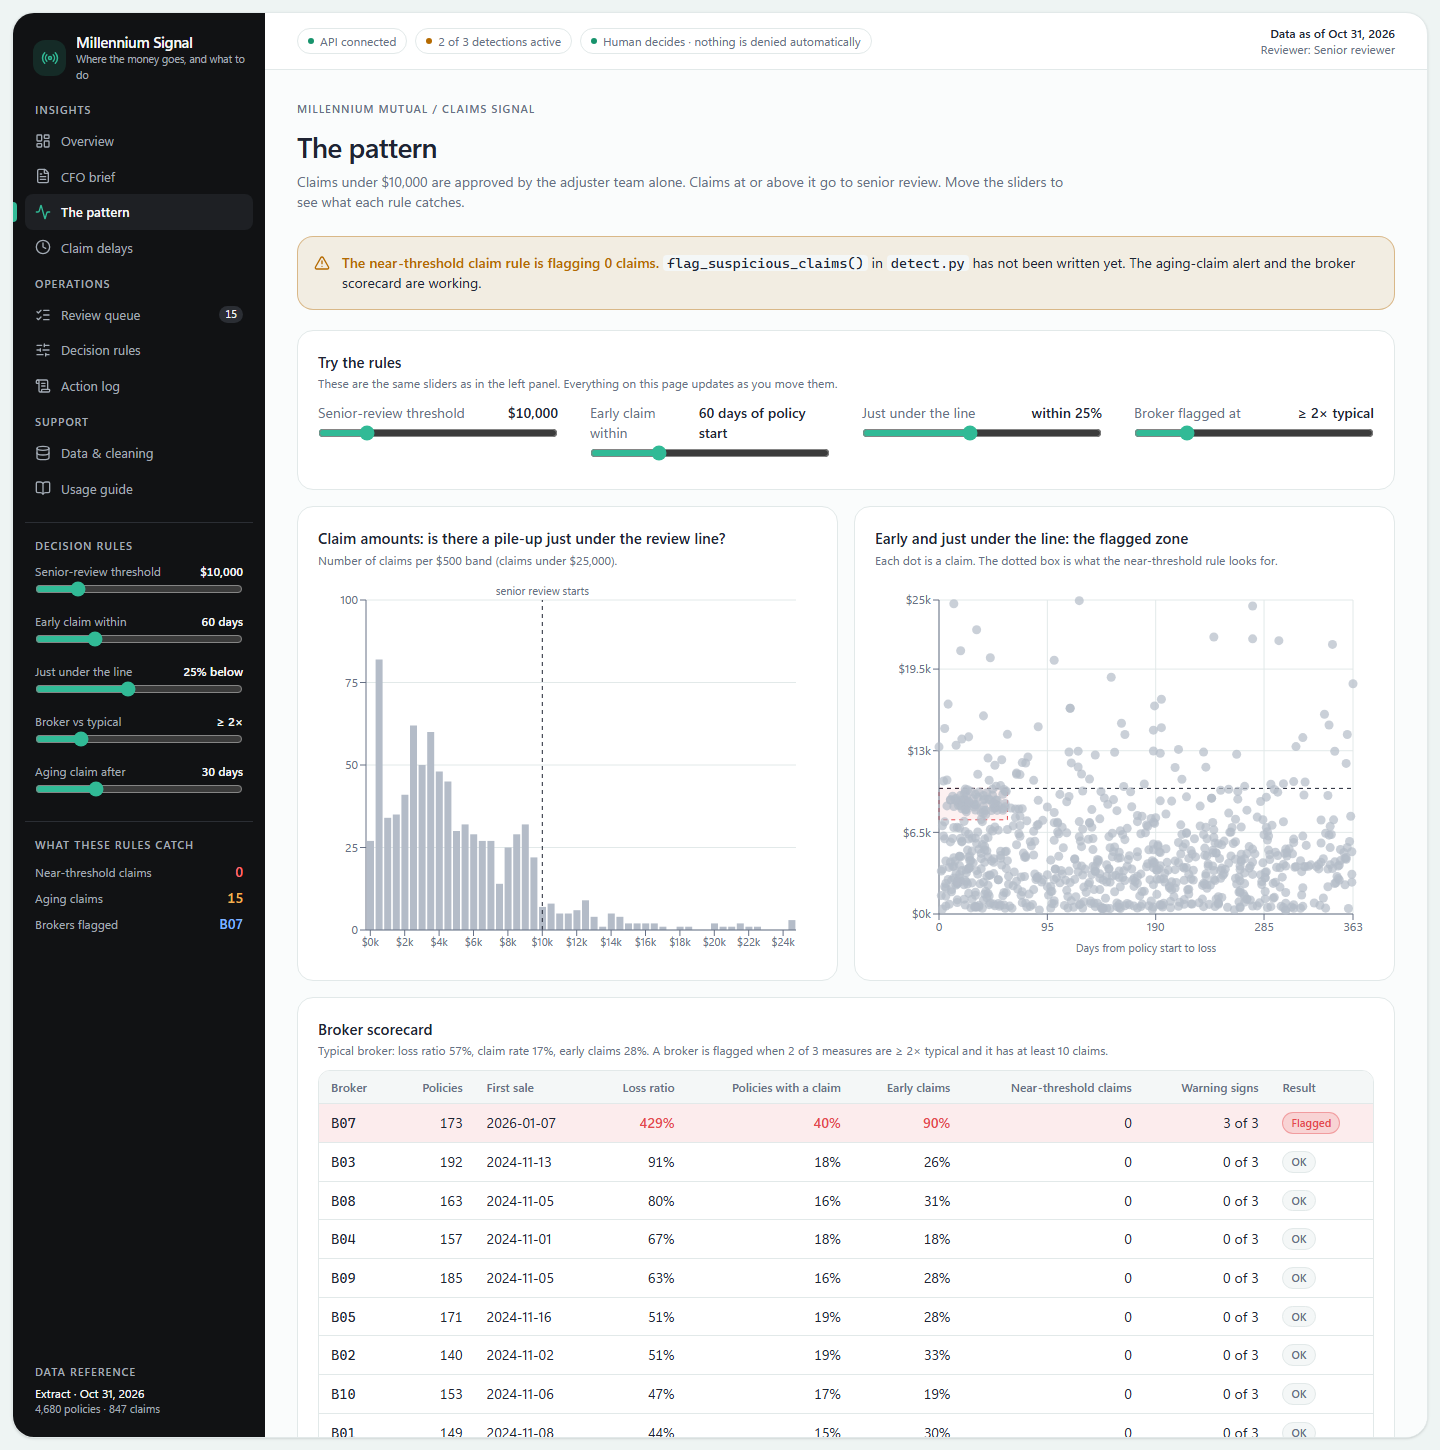
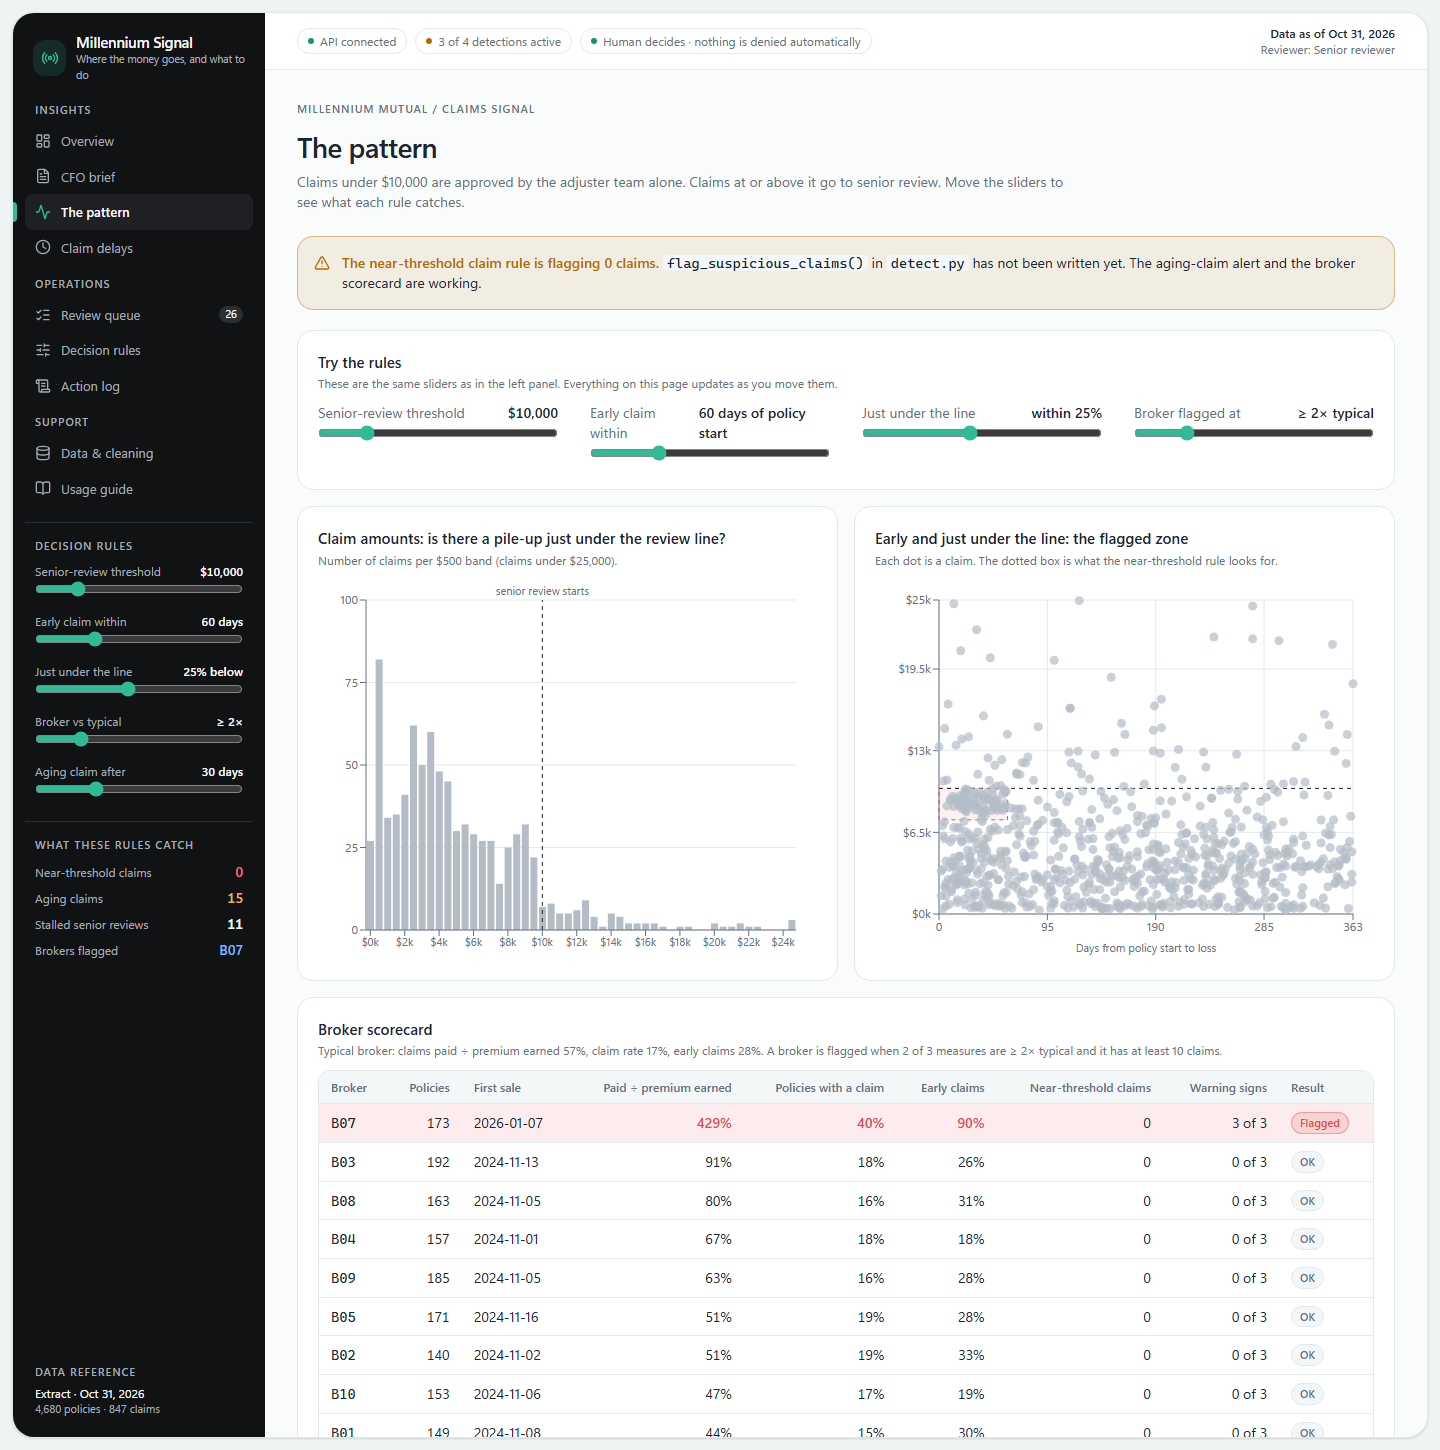
Drop 'loss ratio' label and causal renewal wording
Claims paid / premium earned is now labelled a diagnostic, not a loss ratio
or profit. Renewal findings are stated as an association, not a cause.
Figures and thresholds unchanged. Screenshots retaken.

diff --git a/web/app/guide/page.tsx b/web/app/guide/page.tsx
@@ -43,7 +43,7 @@ export default function GuidePage() {
               <L href="/log">Action log</L> → Reset demo (start clean).
             </li>
             <li>
-              <L href="/">Overview</L>: the loss ratio with and without the flagged broker.
+              <L href="/">Overview</L>: claims paid ÷ premium earned, with and without the flagged broker.
             </li>
             <li>
               <L href="/pattern">The pattern</L>: the scorecard, then move a slider and watch it change.
@@ -81,9 +81,16 @@ export default function GuidePage() {
         <Card title="Limits and uncertainties">
           <ul className="list-disc space-y-2 pl-5 text-sm leading-relaxed">
             <li>A flag asks for a second look. It is not a fraud finding, and the system never denies a claim.</li>
+            <li>
+              “Claims paid ÷ premium earned” is a diagnostic. It is not a full loss ratio or profit: reserves, expenses and
+              commissions are not in the data.
+            </li>
             <li>Earned premium is estimated from each policy&apos;s start date; no data dictionary came with the files.</li>
             <li>Paid claims with no recorded amount count in money paid but cannot be tested against the review line.</li>
-            <li>The renewal comparison is a correlation in one year of data, not proof that delay causes non-renewal.</li>
+            <li>
+              Longer waits are associated with lower renewal. That is a correlation in one year of data, not proof that
+              delay causes non-renewal: there are no renewal-decision dates, prices or complaints in the files.
+            </li>
             <li>“Team with capacity” means fewest open claims, then fastest settlement this year. It ignores staffing we cannot see.</li>
             <li>Messages are drafts on screen and in the log. Nothing is emailed.</li>
             {summary?.near_threshold_rule_missing && (

diff --git a/web/app/brief/page.tsx b/web/app/brief/page.tsx
@@ -91,12 +91,12 @@ export default function BriefPage() {
         <Line label="Priorities" tag="reco">
           1) Route {names === "none" ? "any flagged broker" : names}&apos;s new policies and claims through senior review
           until the account is audited; keep selling through the other brokers. 2) Move aging claims from the slowest
-          team to the team with capacity, and have Retention call those customers. 3) Keep the 30-day alert running: it
-          sits exactly where renewals fall off.
+          team to the team with capacity, and have Retention call those customers. 3) Keep the 30-day alert running: waits
+          past 30 days are associated with much lower renewal.
         </Line>
 
         <Line label="Limits">
-          A flag asks for a second look; it is not a fraud finding. Earned premium is estimated from start dates. Claims
+          A flag asks for a second look; it is not a fraud finding. “Paid ÷ premium earned” is a diagnostic, not a full loss ratio or profit; earned premium is estimated from start dates. Longer waits are associated with lower renewal, which does not prove delay causes it. Claims
           with no recorded amount cannot be checked against the review line. Thresholds are choices, shown in Decision
           rules, and a person confirms every action.
         </Line>

diff --git a/web/app/delays/page.tsx b/web/app/delays/page.tsx
@@ -36,7 +36,7 @@ export default function DelaysPage() {
     <>
       <PageHeader
         title="Claim delays"
-        sub="The VP of Claims and the Head of Retention describe the same problem: slow claims cost renewals."
+        sub="The VP of Claims and the Head of Retention may be describing the same problem: long waits go together with lost renewals."
       />
 
       <div className="grid gap-4 xl:grid-cols-2">
@@ -109,8 +109,8 @@ export default function DelaysPage() {
             </ResponsiveContainer>
           </div>
           <p className="mt-2 rounded-xl border border-amber/30 bg-amber/10 p-3 text-sm">
-            Customers who waited <b>15–30 days</b> renewed <b>{pct(mid?.renewal)}</b> of the time. Past <b>30 days</b> it
-            drops to <b className="text-accent">{pct(slow?.renewal)}</b>. That cliff is why the alert fires at 30 days.
+            Customers who waited <b>15–30 days</b> renewed <b>{pct(mid?.renewal)}</b> of the time. Past <b>30 days</b> the
+            rate was <b className="text-accent">{pct(slow?.renewal)}</b>. That gap is why we set the alert at 30 days. It is an association, not proof that the wait caused the customer to leave.
           </p>
         </Card>
       </div>

diff --git a/web/app/pattern/page.tsx b/web/app/pattern/page.tsx
@@ -141,7 +141,7 @@ export default function PatternPage() {
       <Card
         className="mt-4"
         title="Broker scorecard"
-        sub={`Typical broker: loss ratio ${pct(typical.loss_ratio)}, claim rate ${pct(typical.claim_rate)}, early claims ${pct(typical.early_share)}. A broker is flagged when 2 of 3 measures are ≥ ${rules.multiple}× typical and it has at least 10 claims.`}
+        sub={`Typical broker: claims paid ÷ premium earned ${pct(typical.loss_ratio)}, claim rate ${pct(typical.claim_rate)}, early claims ${pct(typical.early_share)}. A broker is flagged when 2 of 3 measures are ≥ ${rules.multiple}× typical and it has at least 10 claims.`}
       >
         <div className="overflow-auto rounded-xl border border-line">
           <table className="w-full border-collapse">
@@ -150,7 +150,7 @@ export default function PatternPage() {
                 <Th>Broker</Th>
                 <Th right>Policies</Th>
                 <Th>First sale</Th>
-                <Th right>Loss ratio</Th>
+                <Th right>Paid ÷ premium earned</Th>
                 <Th right>Policies with a claim</Th>
                 <Th right>Early claims</Th>
                 <Th right>Near-threshold claims</Th>

diff --git a/web/app/rules/page.tsx b/web/app/rules/page.tsx
@@ -51,7 +51,7 @@ export default function RulesPage() {
 
         <Card title="Broker scorecard" sub="Compares each broker with the typical broker." right={<Badge kind="broker">Broker</Badge>}>
           <p className="mb-4 text-sm leading-relaxed">
-            Flags a broker when at least 2 of its 3 measures (loss ratio, share of policies with a claim, share of early
+            Flags a broker when at least 2 of its 3 measures (claims paid ÷ premium earned, share of policies with a claim, share of early
             claims) are <b>{rules.multiple}×</b> the typical broker or more, and it has at least 10 claims.
           </p>
           <RuleSlider name="multiple" label="Flag when measures are" format={(v) => `≥ ${v}× typical`} />

diff --git a/web/app/page.tsx b/web/app/page.tsx
@@ -38,7 +38,7 @@ export default function OverviewPage() {
           value={`${summary.policies.toLocaleString()}`}
           note={`${summary.claims.toLocaleString()} claims · ${summary.policies_ytd_2026.toLocaleString()} sold Jan–Oct 2026`}
         />
-        <Kpi label="Claims paid ÷ premium earned" value={pct(summary.loss_ratio)} note="Loss ratio, all business" tone="bad" />
+        <Kpi label="Claims paid ÷ premium earned" value={pct(summary.loss_ratio)} note="All business · a diagnostic, not profit" tone="bad" />
         <Kpi
           label={`Same, without ${brokers}`}
           value={pct(summary.loss_ratio_ex_flagged)}

diff --git a/actions.py b/actions.py
@@ -101,7 +101,7 @@ def aging_alert(row: pd.Series, max_days: int, to_team: str) -> str:
         f"Handled by: {row.adjuster_team} · {row.city}\n\n"
         f"Suggested action: reassign this claim to {to_team}, which has capacity "
         f"(fewest open claims and the fastest settlement time this year).\n"
-        f"Why it matters: customers who wait over 30 days renew 45% of the time, "
+        f"Context: in this data, customers who waited over 30 days renewed 45% of the time, "
         f"against 83% for those who wait 15 to 30 days."
     )
 
@@ -113,7 +113,7 @@ def retention_note(row: pd.Series) -> str:
         f"Customer {row.customer_id} ({row.city}, {row.policy_type} policy {row.policy_id}) has been "
         f"waiting {int(row.days_open)} days for a {row.claim_type} claim.\n"
         f"Please call to apologise for the delay, confirm the claim is being moved to a team "
-        f"with capacity, and give a named contact. This customer is at risk of not renewing."
+        f"with capacity, and give a named contact. Long waits are associated with lower renewal in our data."
     )
 
 

diff --git a/app.py b/app.py
@@ -88,7 +88,7 @@ with tab1:
 
     k1, k2, k3, k4 = st.columns(4)
     k1.metric("Policies sold Jan–Oct 2026", f"{len(ytd26):,}", f"{len(ytd26) / len(ytd25) - 1:+.0%} vs 2025")
-    k2.metric("Claims paid ÷ premium earned", f"{total_lr:.0%}", help="Loss ratio: share of premium paid back out in claims.")
+    k2.metric("Claims paid ÷ premium earned", f"{total_lr:.0%}", help="Share of earned premium paid back out in claims. A diagnostic, not a full loss ratio or profit.")
     k3.metric(f"Same, without {', '.join(flagged_brokers) or 'flagged brokers'}", f"{clean_lr:.0%}",
               f"{clean_lr - total_lr:+.0%}", delta_color="inverse")
     k4.metric("Paid on flagged claims", f"${flagged_claims.paid_amount_filled.sum():,.0f}")

diff --git a/clean.py b/clean.py
@@ -69,7 +69,7 @@ def load_and_clean(data_dir: str | Path = "data"):
         pol.annual_premium.astype(str).str.replace(r"[$,\s]", "", regex=True), errors="coerce")
     note("Converted text premiums ('$1,046.62') to numbers", n,
          "Text values are ignored by sums, so premium income was understated.",
-         "Loss ratios would have looked worse than reality.")
+         "Claims paid ÷ premium would have looked worse than reality.")
 
     # 5. Mixed date formats.
     pol["start_date"], n1 = parse_dates(pol.start_date)

diff --git a/DECISIONS.md b/DECISIONS.md
@@ -55,9 +55,9 @@ One line per choice: what and why.
 ### Conflicts to settle as a team (not resolved by me)
 
 1. **Two prototypes.** Her pack describes a separate live app, "Millennium Intelligence". This repo is "Millennium Signal". Decide which one is demoed and submitted.
-2. **"Loss ratio" wording.** We show "64% / 56% loss ratio" and B07 at 429% on *earned* premium. Her guardrail says never call it a loss ratio; her figure is a "paid-to-recorded-premium proxy" on *written* premium (Broker 61.3%, B07 204.8%). Both are computed correctly; pick one basis and one name.
+2. **"Loss ratio" wording.** We show "64% / 56% loss ratio" and B07 at 429% on *earned* premium. Her guardrail says never call it a loss ratio; her figure is a "paid-to-recorded-premium proxy" on *written* premium (Broker 61.3%, B07 204.8%). Both are computed correctly; pick one basis and one name. **Resolved (wording):** we keep the earned-premium basis and the 64% / 56% / 429% figures, but no longer call it a loss ratio; it is "claims paid ÷ premium earned", labelled a diagnostic, not profit.
 3. **Aging threshold.** Ours defaults to 30 days (15 claims), justified by the renewal drop. Hers is 25 days, derived from the slowest team's mean resolution (20 claims), and she calls 30 days "illustrative, not an SLA".
-4. **Renewal claim.** Our drafted alert and brief say customers past 30 days renew 45% vs 83%. Her finding is 22.9% not renewed with a claim vs 14.4% without, over 2,308 eligible policies, and she insists on "associated with", never causation. Our wording "why it matters" and "where renewals fall off" is stronger than hers.
+4. **Renewal claim.** Our drafted alert and brief say customers past 30 days renew 45% vs 83%. Her finding is 22.9% not renewed with a claim vs 14.4% without, over 2,308 eligible policies, and she insists on "associated with", never causation. Our wording "why it matters" and "where renewals fall off" is stronger than hers. **Resolved (wording):** the app, drafted messages, brief and README now say waits are *associated with* lower renewal and state that this is not proof of cause. The 83% / 45% figures and the 30-day default are unchanged.
 5. **Broker B07.** We flag the broker and draft a message to the Head of Distribution to route its business through senior review. She says no action against the broker: one human referral to investigators, because 58 of its 60 theft claims sit between $7,500 and $9,999.
 6. **Near-threshold rule.** Ours expects 73 claims (early loss + just under the line) but is unwritten. Her equivalent is the B07 theft pattern above, as a single pattern task, not 73 claim tasks.
 7. **Policy count.** We remove 4 TEST policies (4,680). She keeps them (4,684). Premium totals are unaffected ($0 premium).

diff --git a/README.md b/README.md
@@ -26,7 +26,7 @@ Data as of Oct 31, 2026.
 |---|---|
 | Data after cleaning | **4,680 policies · 847 claims** (9 cleaning steps, each logged with its reason) |
 | Claims paid ÷ premium earned | **64%** overall · **56%** without broker B07 |
-| Broker scorecard | **B07 is the only broker flagged**: 429% loss ratio, 3 of 3 warning signs |
+| Broker scorecard | **B07 is the only broker flagged**: pays out 429% of the premium it earns, 3 of 3 warning signs |
 | Aging Claim Alert (N = 30 days) | **15 open claims**, 13 of them with one adjuster team |
 | Senior queue monitor | **11 claims of $10,000 or more still undecided** ($221,881 recorded, oldest 206 days) |
 | Renewal after a claim | **83%** when the wait was 15–30 days · **45%** past 30 days |
@@ -35,7 +35,7 @@ Data as of Oct 31, 2026.
 
 **1. One broker, not the broker channel.** B07 started selling in January 2026 and pays out more than four times the premium it earns. The other nine brokers perform like the company's own agents and online channel.
 
-**2. Slow claims cost renewals.** One adjuster team's median settlement time roughly doubled in 2026. Customers who wait more than 30 days renew about half as often as those who wait 15 to 30 days.
+**2. Slow claims go with lost renewals.** One adjuster team's median settlement time roughly doubled in 2026. Customers who wait more than 30 days renew about half as often as those who wait 15 to 30 days.
 
 ![Claim delays](docs/screenshots/04-claim-delays.png)
 
@@ -253,7 +253,8 @@ HANDOFF.md            How to run, demo path, plain-English file guide
 - A flag asks for a second look. It is not a fraud finding, and the system never denies a claim.
 - Earned premium is estimated from each policy's start date. No data dictionary came with the files.
 - Paid claims with no recorded amount count in money paid but cannot be tested against the review line.
-- The renewal comparison is a correlation in one year of data, not proof that delay causes non-renewal.
+- "Claims paid ÷ premium earned" is a diagnostic. It is not a full loss ratio or profit: reserves, expenses and commissions are not in the data.
+- Longer waits are associated with lower renewal. That is a correlation in one year of data, not proof that delay causes non-renewal.
 - "Team with capacity" means fewest open claims, then fastest settlement this year.
 - Messages are drafts shown on screen and logged. Nothing is emailed.
 - **Current state:** the near-threshold claim rule (`flag_suspicious_claims` in `detect.py`) is not written yet, so 3 of 4 detections are active and the screenshots show 0 near-threshold claims.

diff --git a/HANDOFF.md b/HANDOFF.md
@@ -23,7 +23,7 @@ Restart the first window after any change to a `.py` file. Fallback: `streamlit 
 
 ## What works (tested in the browser)
 
-- `/api/summary`: 4,680 policies, 847 claims, 64% loss ratio, 56% without B07, B07 the only flagged broker, 15 aging claims. Flagged claims = 0 (stub).
+- `/api/summary`: 4,680 policies, 847 claims, 64% claims paid ÷ premium earned, 56% without B07, B07 the only flagged broker, 15 aging claims. Flagged claims = 0 (stub).
 - Overview, The pattern, Review queue, Claim delays, Decision rules, Action log, Data & cleaning all load with no console errors.
 - Sliders (sidebar, Pattern, Claim delays, Decision rules) update every screen; N = 7 → 34 aging claims, 30 → 15, 90 → 4.
 - Review queue: filters, row selection, "Confirm reassignment", "Dismiss", "Confirm broker review", "Dismiss broker alert", "Submit claim" all clicked and logged.
@@ -62,7 +62,7 @@ AI summary, real email, Vercel (as instructed). 21st.dev components (see DECISIO
 ## Demo click path
 
 1. **Reset first**: Action log → Reset demo → Yes, reset.
-2. **Overview**: 64% loss ratio, 56% without B07; B07 bar at 429%.
+2. **Overview**: 64% of earned premium paid out in claims, 56% without B07; B07 bar at 429%.
 3. **The pattern**: broker scorecard, B07 flagged 3 of 3.
 4. **Move a slider**: drag "Aging claim after" in the left panel (15 → more/fewer), or "Broker vs typical" to 4× (B07 drops off), then put it back.
 5. **Review queue**: pick an Aging claim task, read the two drafted messages, click **Confirm reassignment**
